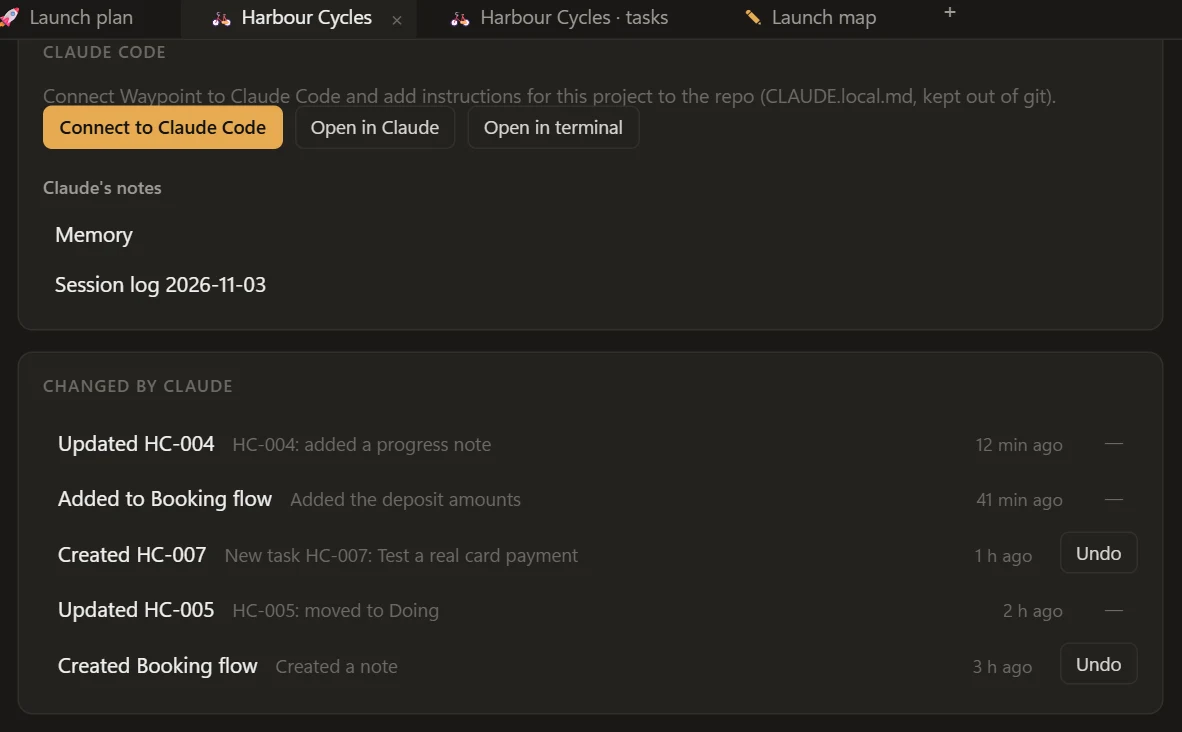
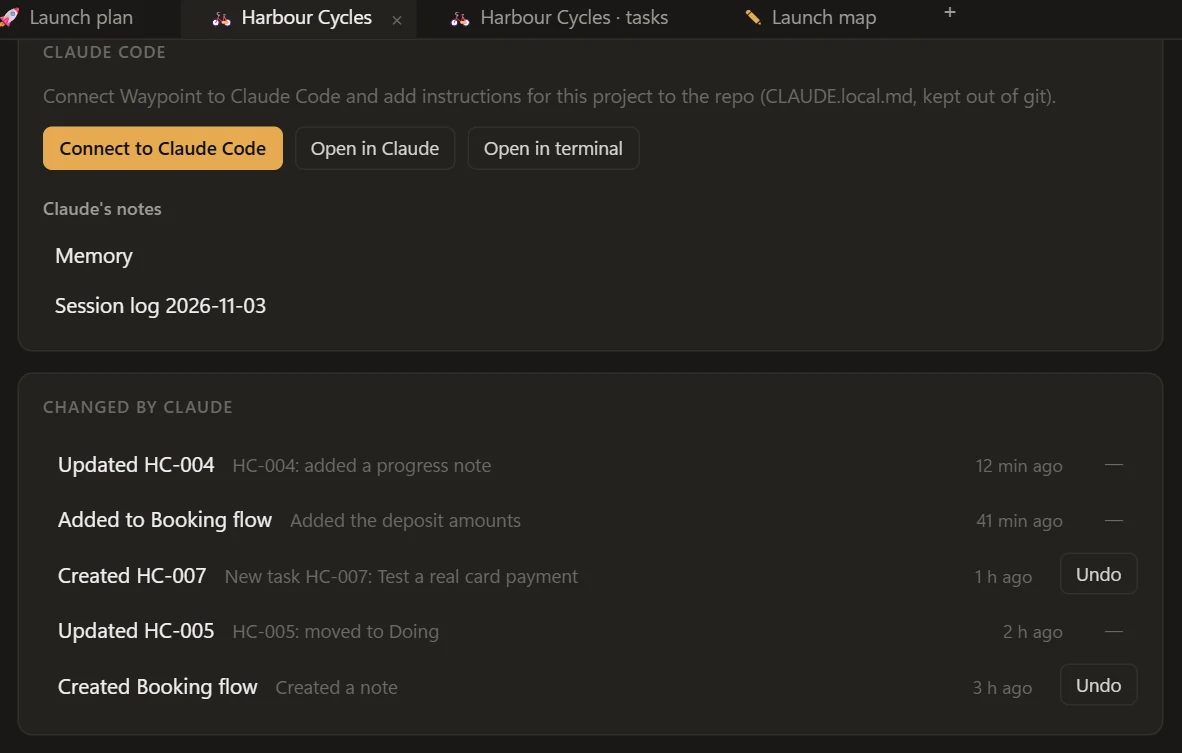
Explain the bundled Claude Code connector on the website
Also retakes the Claude Code screenshots with the spacing fix.

diff --git a/site/index.html b/site/index.html
@@ -531,8 +531,10 @@ one-handed on a phone.</pre>
           <h2>Connect Claude Code if you use it</h2>
         </div>
         <div class="body">
-          <p>This part is optional. Waypoint never calls Claude itself, and every feature works without it. If you use Claude Code, a local connector lets sessions in a project's repo read and update that project's tasks and docs.</p>
+          <p>This part is optional. Waypoint never calls Claude itself, and every feature works without it.</p>
+          <p>If you use Claude Code, the installer already includes an MCP connector that runs on your PC, so there's nothing extra to install. Set a project's repo folder and press Connect to Claude Code. Sessions in that repo can then see the project, in the terminal or the desktop app's Code tab.</p>
           <ul class="points">
+            <li><span><strong>What Claude can do.</strong> Search and read your notes, create and update tasks, edit docs, and rename or move files with links kept up to date.</span></li>
             <li><span><strong>Send to Claude.</strong> Start a session on a task from its card or the open task.</span></li>
             <li><span><strong>Project memory.</strong> Claude keeps its notes and dated session logs as ordinary notes you can read.</span></li>
             <li><span><strong>Changed by Claude.</strong> Every change is listed in a feed, and you can undo it from there.</span></li>
